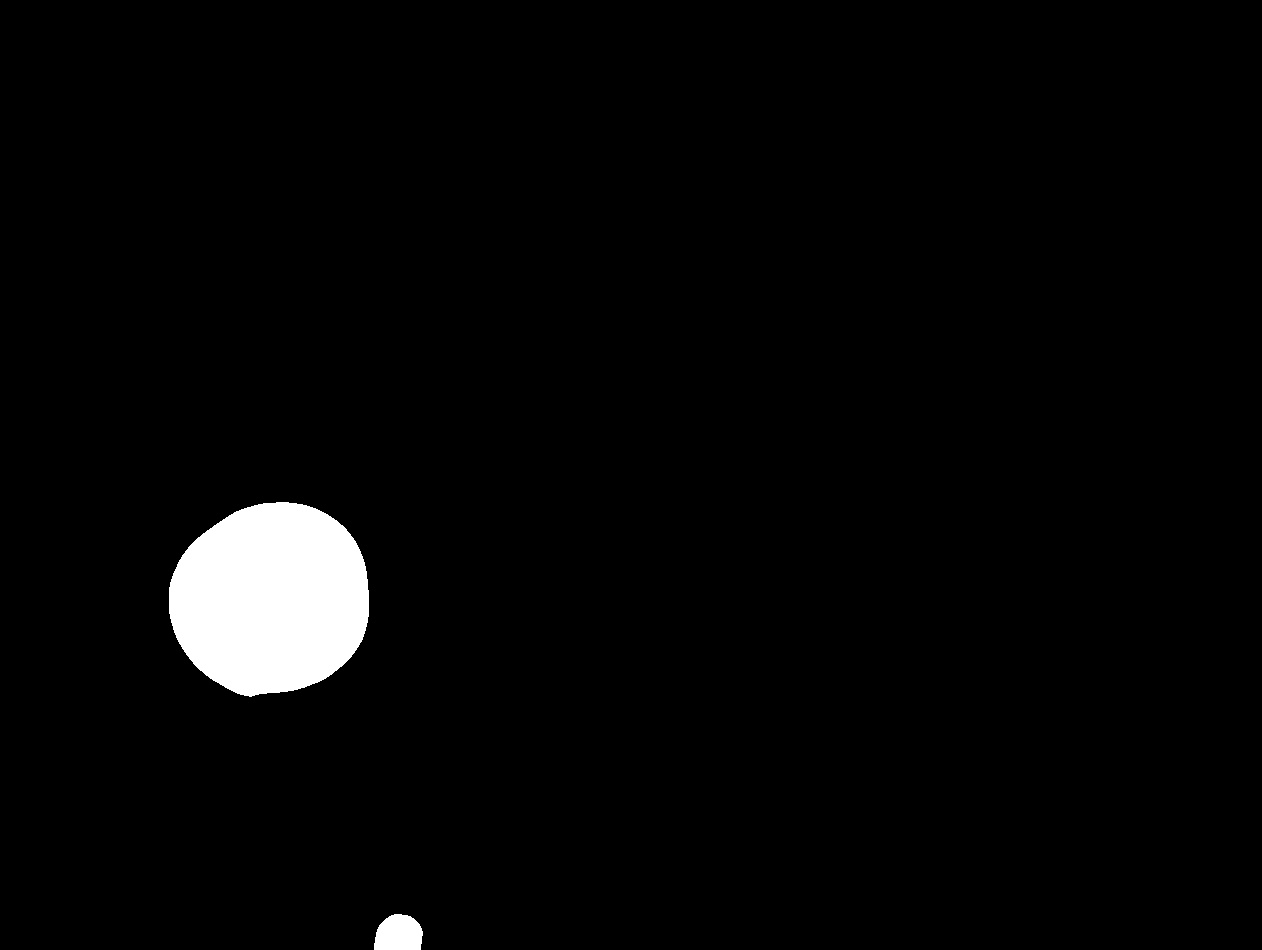
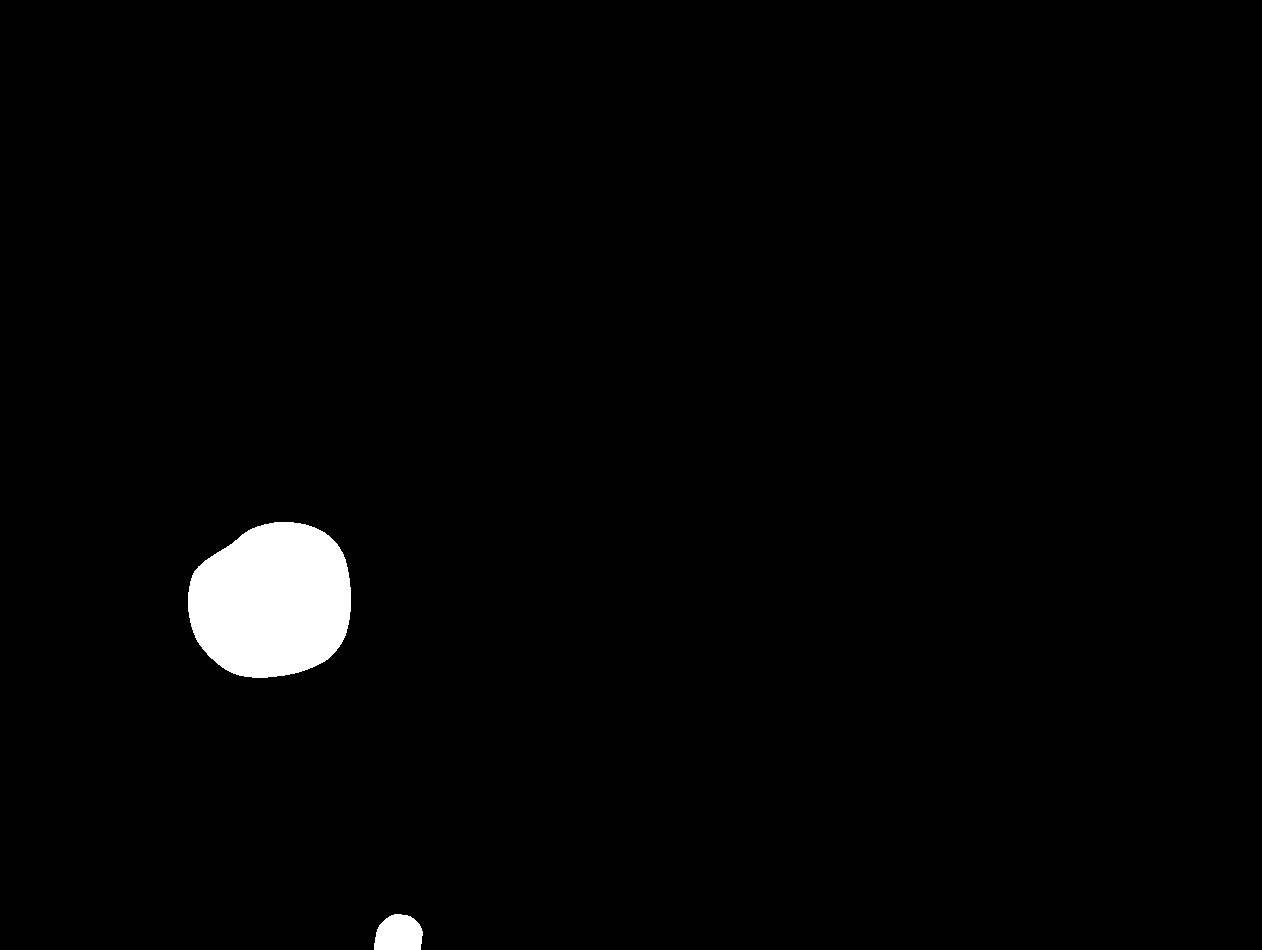
Write images for all processing modes

Changed region(s): [[0.1236, 0.5189, 0.309, 0.7326]]

diff --git a/src/main/java/frc/robot/Vision/2022local_testing.py b/src/main/java/frc/robot/Vision/2022local_testing.py
@@ -1,6 +1,7 @@
 import math
 import time
 import glob
+import re
 from sqlite3 import Time
 
 import cv2
@@ -8,8 +9,7 @@ import numpy as np
 
 vision_directory = 'src/main/java/frc/robot/vision/'
 
-def processSimple(image):
-    input_img = image
+def processSimple(input_img):
 
     #Red Ball
     '''
@@ -206,7 +206,7 @@ def processSimple(image):
         last_contour_x = cx
         last_contour_y = cy
 
-        return cnt_to_process
+        return cnt_to_process, 'X center: ' + str(cx) + ' Y center: ' + str(cy)
 
     except Exception as e:
         print('Exception ', e)
@@ -264,9 +264,6 @@ def processBlob(input_img):
     current_frame = 0
     frame_memory = 0
     contour_found_once = False
-
-    #Create info for packet
-    PacketValue = {}
     
     dark_blobs = False
     min_area = 10
@@ -296,10 +293,6 @@ def processBlob(input_img):
 
     #Create info for packet
     try:
-        current_frame += 1
-        PacketValue = {}
-        PacketValue['cameraid'] = 0
-        PacketValue['ballColor'] = 'blue'
         
         #start_time = time.time() #Use this to get FPS below
 
@@ -328,6 +321,8 @@ def processBlob(input_img):
 
         # Sort contours by area size (biggest to smallest)
         cntsSorted = sorted(contours, key=lambda x: cv2.contourArea(x), reverse=True)
+
+        return blobs, 'X center: ' + str(x) + ' Y center: ' + str(y)
 
     except Exception as e:
         print('Exception', e)
@@ -360,10 +355,6 @@ def processHough(input_img):
     print('Blue ball vision setup complete')
 
     try:
-        current_frame += 1
-        PacketValue = {}
-        PacketValue['cameraid'] = 0
-        PacketValue['ballColor'] = 'yellow'
         
         #start_time = time.time() #Use this to get FPS below
 
@@ -404,7 +395,7 @@ def processHough(input_img):
             # draw the center of the circle
             cv2.circle(input_img,(i[0],i[1]),2,(0,0,255),3)
 
-            print('x: ', i[0], 'y: ', i[1], '\n')
+            print('x: ', i[0], 'y: ', i[1])
         
         
         cv2.imwrite('Hough.jpg', input_img)
@@ -416,6 +407,8 @@ def processHough(input_img):
         mask = cv2.inRange(input_img, (blueHue[0], blueSat[0], blueVal[0]),
                             (blueHue[1], blueSat[1], blueVal[1]))
         '''
+
+        return input_img
             
     except Exception as e:
         print('Error: ', e)
@@ -424,16 +417,26 @@ print('Local testing starting')
 
 sample_directory = 'Vision Samples/'
 output_directory = 'testing_output/'
-file = '*.png'
+file = '*'
 for name in glob.glob(vision_directory + sample_directory + file):
     file = cv2.imread(name)
 
     #Process via simple mode
-    newImage = cv2.drawContours(file, [processSimple(file)], -1, (255, 255, 255), 10)
-    cv2.imwrite(vision_directory + output_directory + 'simple/' + name + 'processed' + '.png', newImage)
 
-    #cv2.imwrite('src/main/java/frc/robot/vision/testing_output/simple/' + time.strftime('%Y-%m-%dT%H-%M-%S', time.localtime()) + '-' + str(round(time.time() % 1 * 1000)) + '.jpg', newImage)
+    filename = vision_directory + output_directory + 'simple/' + name[name.find('\\'):name.find('.')] + '-processed' + '.jpg'
+    contour, text = processSimple(file)
+    image_simple = cv2.drawContours(file, [contour], -1, (255, 255, 255), 10)
+    cv2.putText(image_simple, text, (10, 25), cv2.FONT_HERSHEY_PLAIN, 2, (0, 0, 255), 2)
     
-    #processBlob(file)
-    
-    #processHough(file)
+    cv2.imwrite(filename, image_simple)
+
+    # Write with time stamp instead
+    # time.strftime('%Y-%m-%dT%H-%M-%S', time.localtime()) + '-' + str(round(time.time() % 1 * 1000)) + '.jpg'
+
+    filename = vision_directory + output_directory + 'blob/' + name[name.find('\\'):name.find('.')] + '-processed' + '.jpg'
+    image_blob, text = processBlob(file)
+    cv2.imwrite(filename, image_blob)
+
+    filename = vision_directory + output_directory + 'hough/' + name[name.find('\\'):name.find('.')] + '-processed' + '.jpg'
+    image_hough = processHough(file)
+    cv2.imwrite(filename, image_hough)
